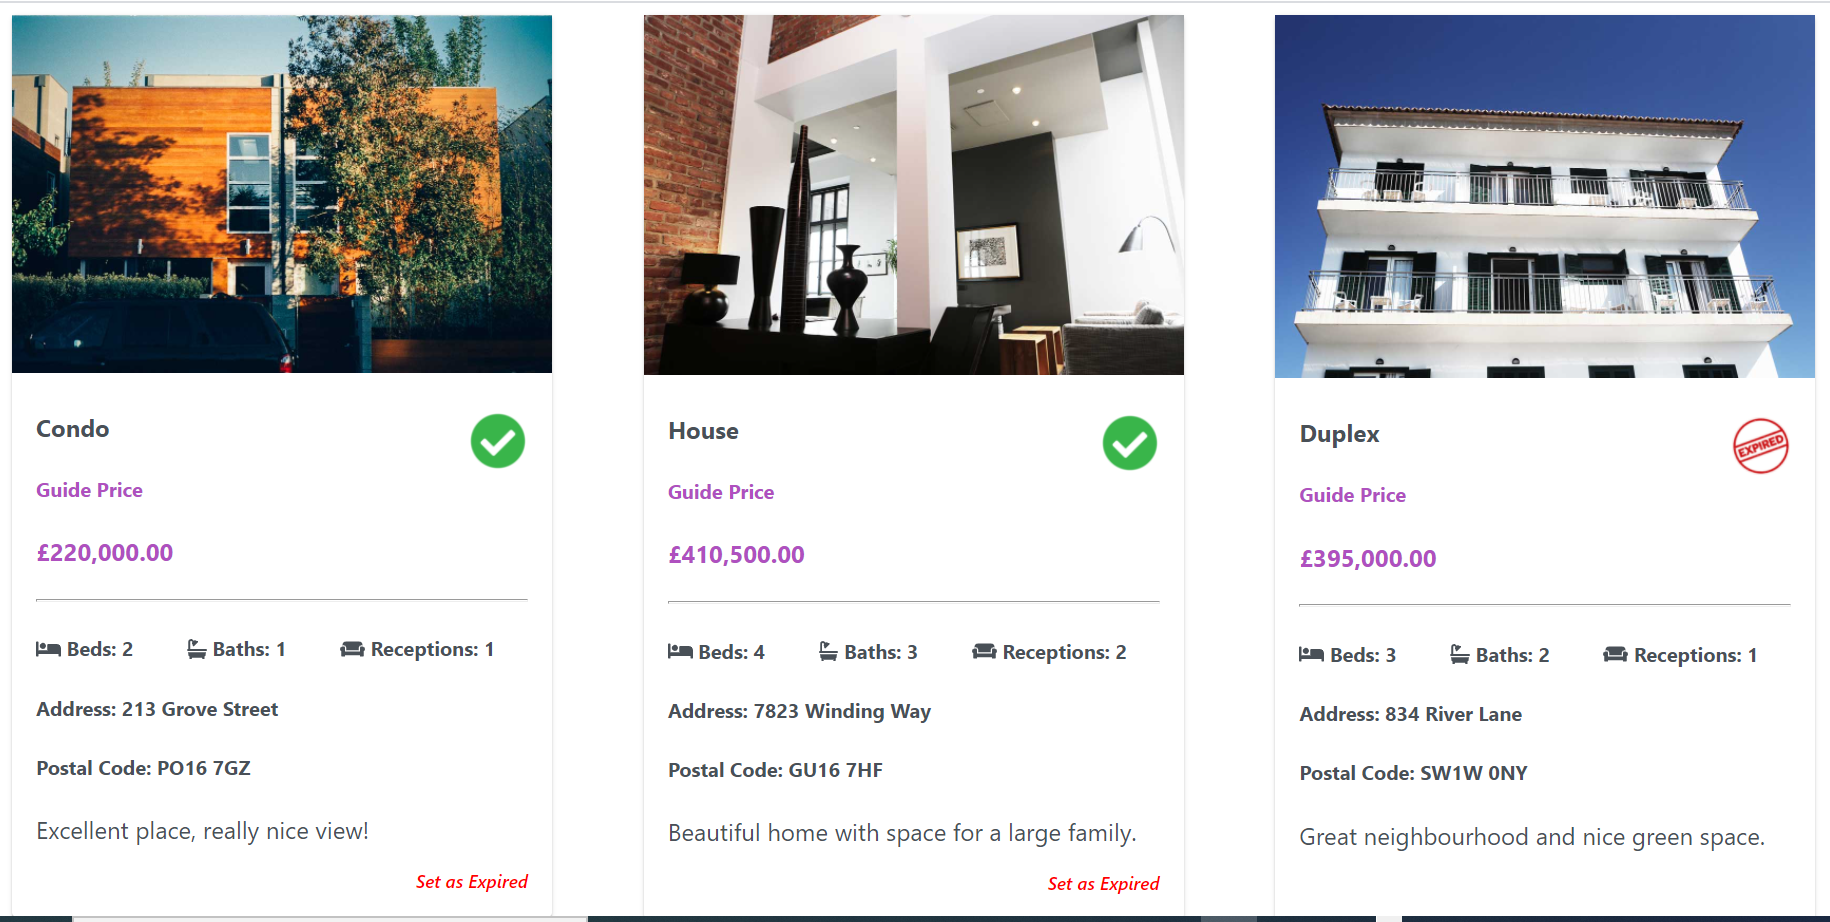
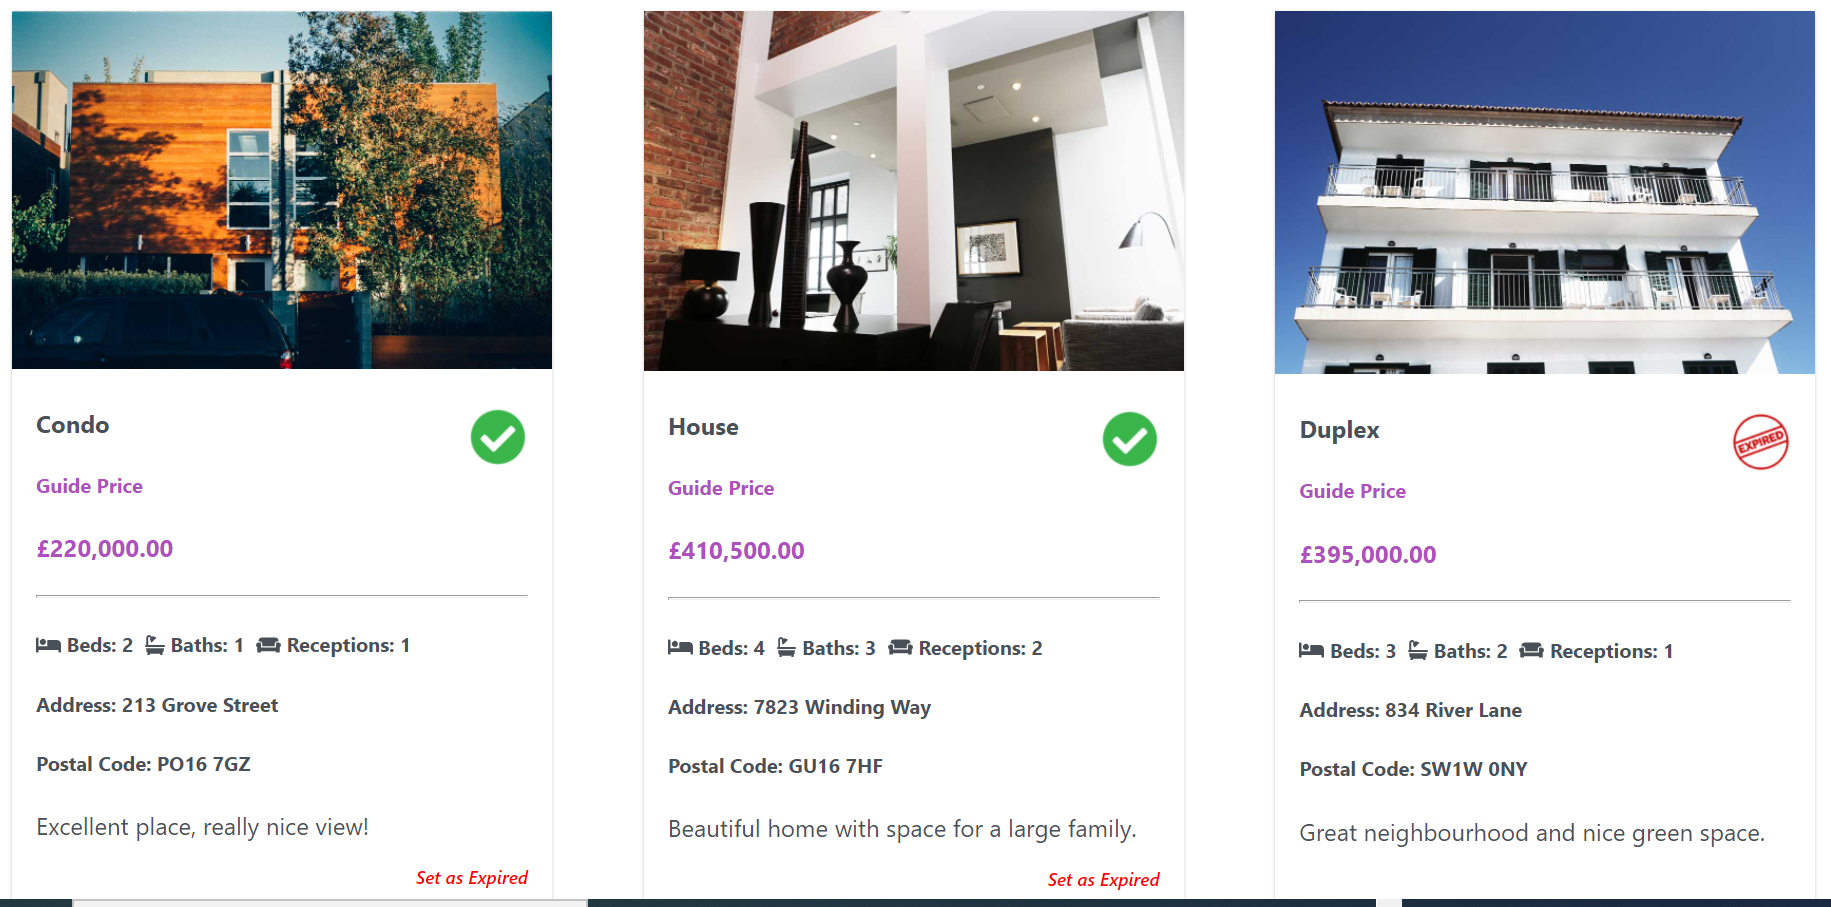
reduced spacing between bed bath reception

diff --git a/src/app/property-card/property-card.component.html b/src/app/property-card/property-card.component.html
@@ -39,11 +39,11 @@
                     <div>
                         <div class="details">
                             <h5>
-                                <span class="label label-primary pr-5">
+                                <span class="label label-primary pr-1">
                                     <fa-icon [icon]="faBed"></fa-icon>
                                     Beds: {{ property.bedrooms }}
                                 </span>
-                                <span class="label label-primary pr-5">
+                                <span class="label label-primary pr-1">
                                     <fa-icon [icon]="faBath"></fa-icon>
                                     Baths: {{ property.bathrooms }}
                                 </span>

diff --git a/src/app/property-card/property-card.component.scss b/src/app/property-card/property-card.component.scss
@@ -61,7 +61,3 @@
 	border-color: var(--teal-400);
 	color: #ffffff;
 }
-
-.pr-5 {
-	padding-right: 5px;
-}
